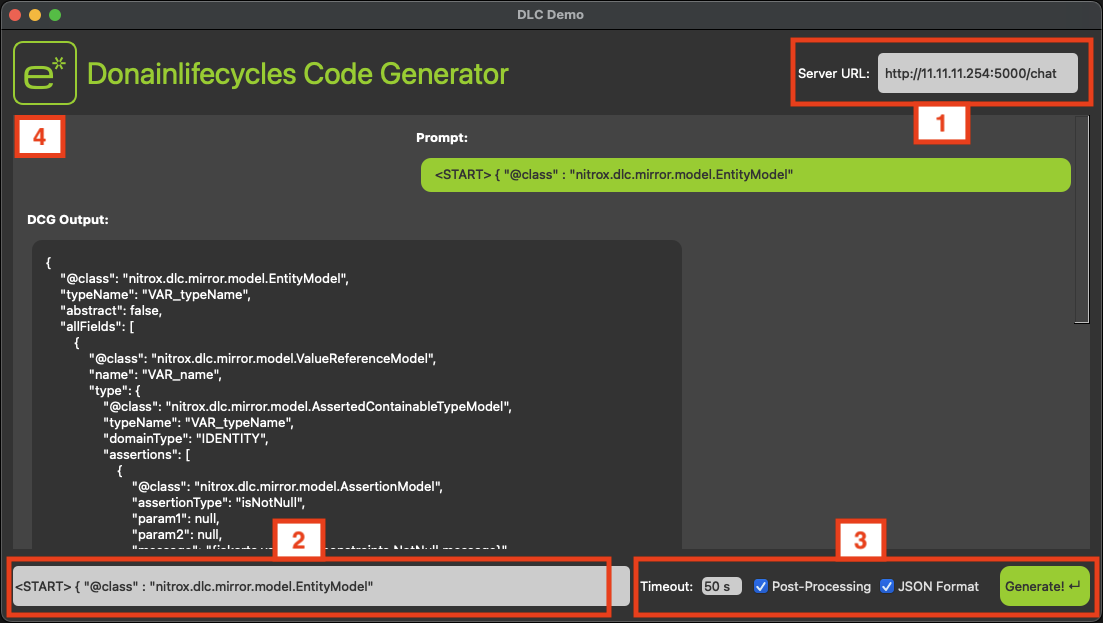
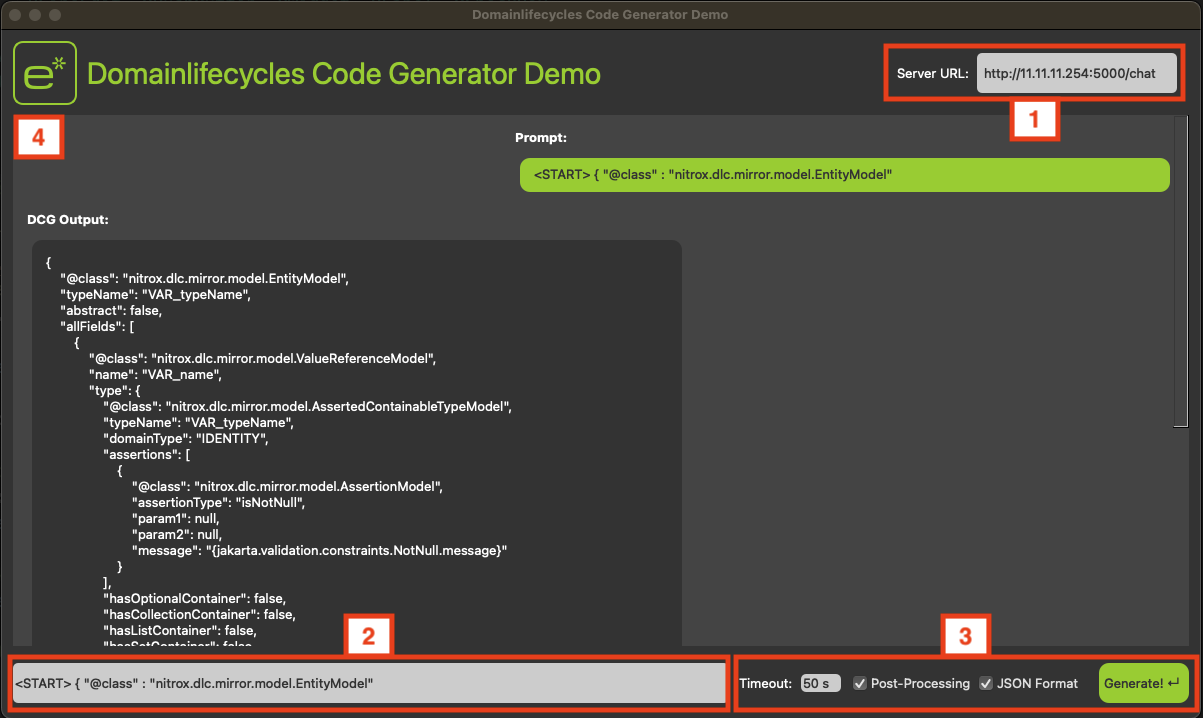
fix typo and screenshot

Changed region(s): [[0.0, 0.0, 1.0, 1.0]]

diff --git a/DCG_Client.py b/DCG_Client.py
@@ -143,7 +143,7 @@ class ChatWindow(QMainWindow):
     def __init__(self):
         super().__init__()
 
-        self.setWindowTitle("Donainlifecycles Code Generator Demo")
+        self.setWindowTitle("Domainlifecycles Code Generator Demo")
         self.setGeometry(100, 100, 1400, 700)
 
         main_layout = QGridLayout()
@@ -158,7 +158,7 @@ class ChatWindow(QMainWindow):
         title_layout.addWidget(self.icon_label)
 
         # Title Label
-        self.title_label = QLabel("Donainlifecycles Code Generator Demo", self)
+        self.title_label = QLabel("Domainlifecycles Code Generator Demo", self)
         self.title_label.setStyleSheet("color: #99CC33; font-size: 30px; font-weight: italic;")
         title_layout.addWidget(self.title_label)
 
